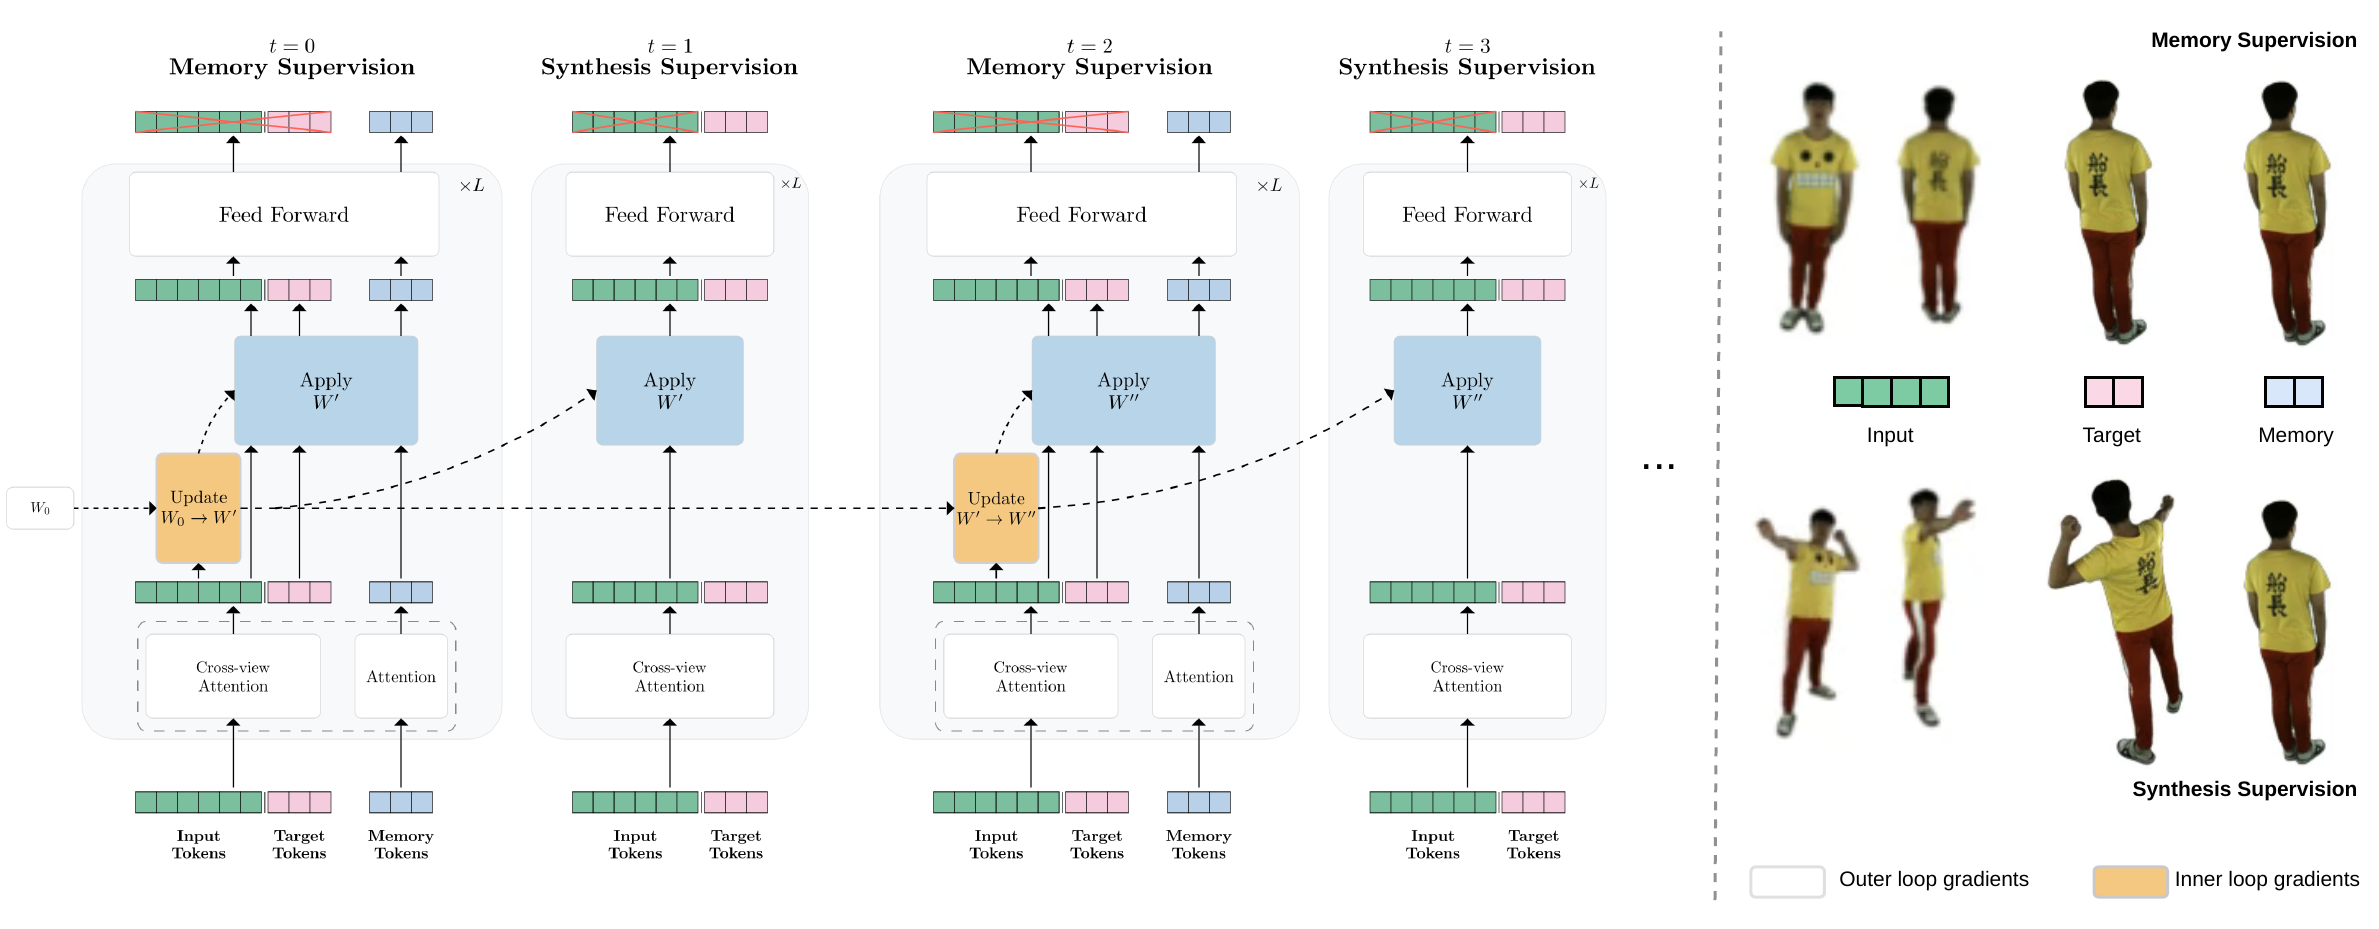
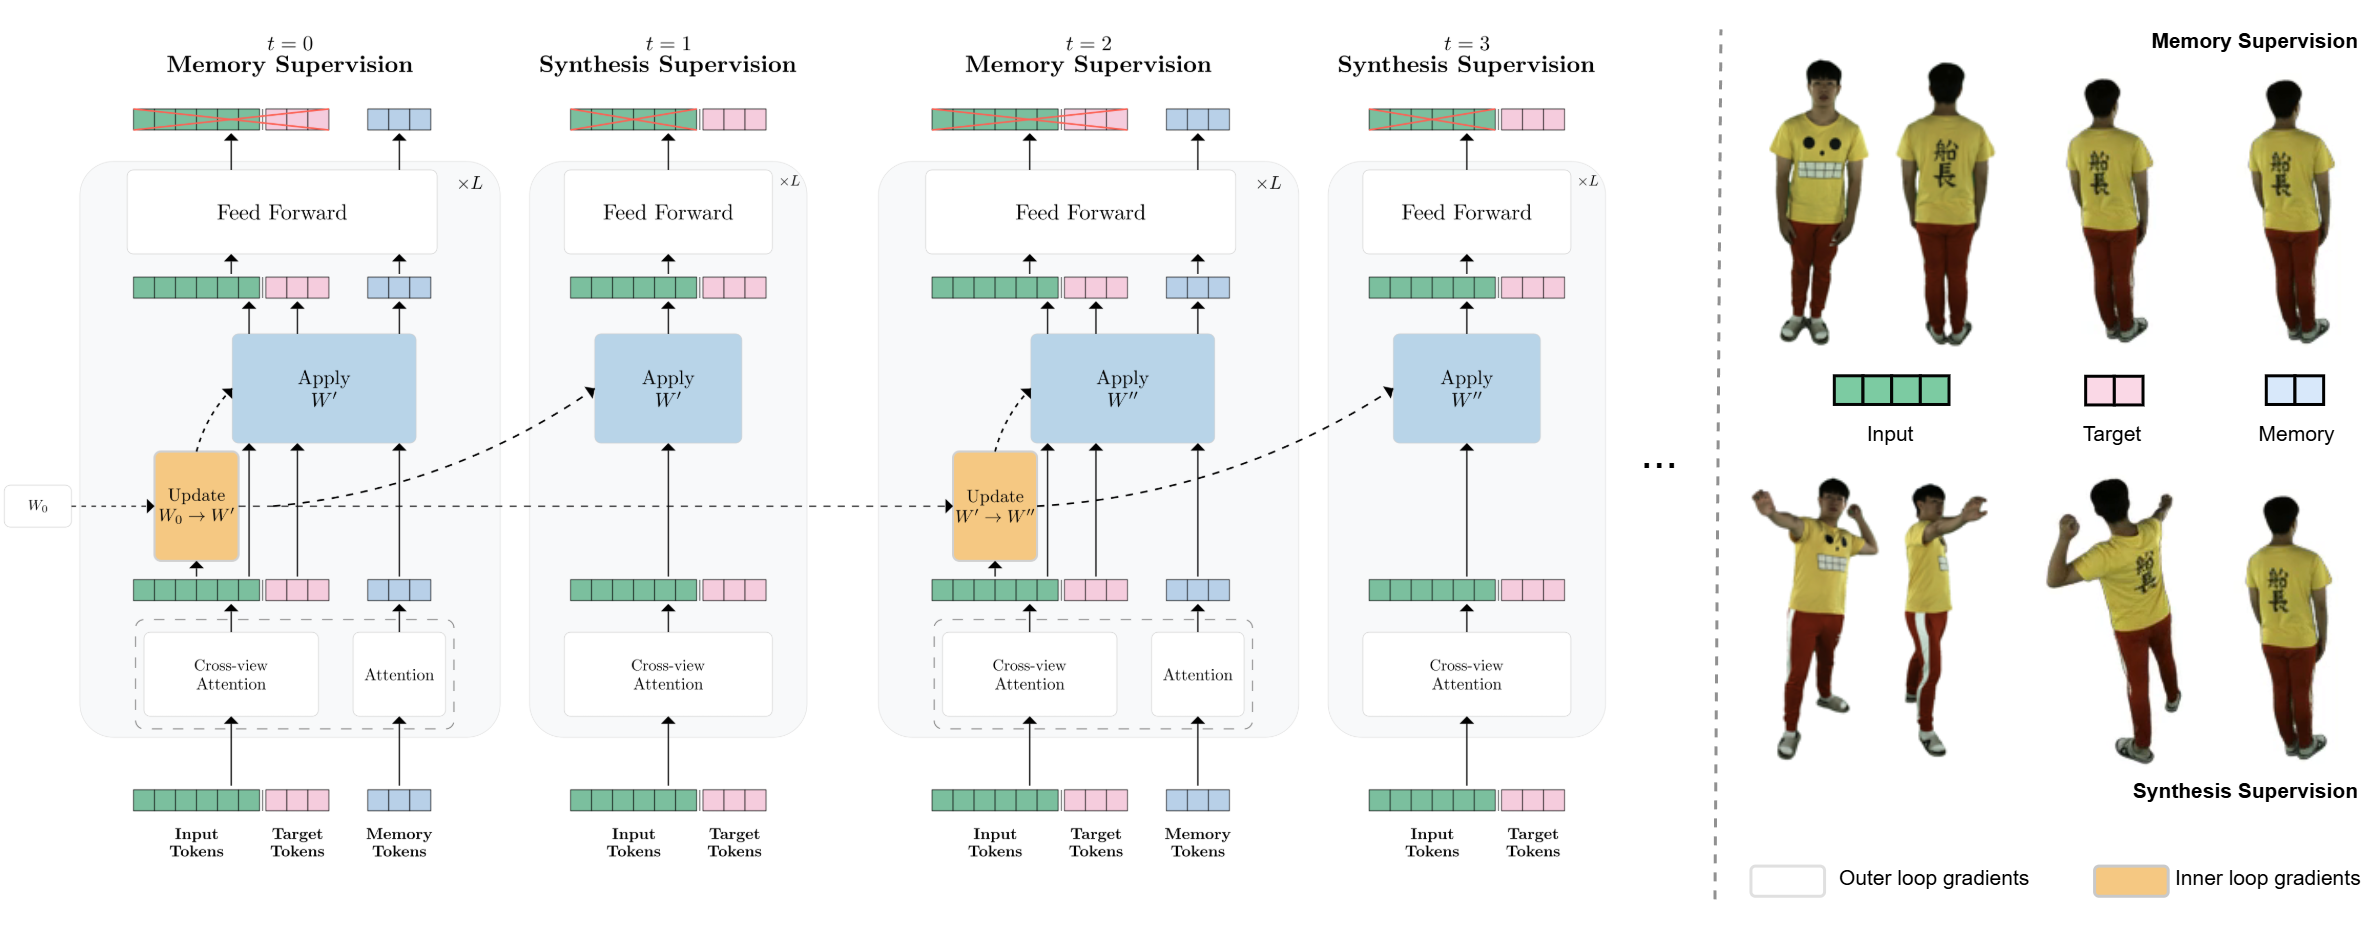
Sync text and training figure with the revised paper
- Abstract: last sentence ("state-of-the-art minute-scale memory
  persistence ... at amortized real-time speed")
- TL;DR: reworded
- Teaser (Fig. 1) caption: revised paper wording
- Training Scheme caption: revised wording, describes the updated figure
- resources/training_regime_v6.png: updated figure

diff --git a/index.html b/index.html
@@ -159,8 +159,8 @@
   <div class="notification is-info is-rounded tldr-card"
     style="text-align: center; background-color: #d0d5ec;">
     <h6 style="text-align: center; color: rgb(0, 0, 0); font-size: 1.07rem; line-height: 1.5; margin: 0;">
-      <strong>TL;DR: Real-time, minute-long memory for dynamic NVS from multi-view videos:</strong>
-      Remembers the past and reconstructs occluded regions. Beats SOTA like LaCT-NVS and LVSM.
+      <strong>TL;DR: Minute-long memory for online dynamic NVS from multi-view videos:</strong>
+      Remembers the past and reconstructs occluded regions at amortized real-time speed.
     </h6>
   </div>
 </section>
@@ -190,9 +190,9 @@
             historical context, we introduce two critical mechanisms: an auxiliary
             <em>Memory Loss</em> that forces persistent internalization of the scene,
             and a <em>Memory Caching</em> strategy that regularizes active weights
-            against catastrophic drift. Our method demonstrates real-time,
-            state-of-the-art performance on scenes with dynamic human motion as well as
-            minute-scale online memorization.
+            against catastrophic drift. Our method demonstrates state-of-the-art
+            minute-scale memory persistence in online dynamic human scenes at
+            amortized real-time speed.
           </p>
         </div>
         </div>
@@ -208,13 +208,13 @@
       <img src="resources/teaser_nstm_pink.png"
         alt="NSTM overview: input stereo video, periodic memorization, and per-frame synthesis over time.">
       <p class="caption-text" style="max-width: 900px; margin: 1rem auto 0;">
-        <strong>Neural Space-Time Memory (NSTM)</strong> synthesizes novel views in
-        amortized real-time from 30&nbsp;FPS multi-view videos, while updating its memory at 1&nbsp;FPS.
-        <strong>Middle:</strong> NSTM captures the back logo as the subject rotates (see memory readout),
+        <strong>Neural Space-Time Memory (NSTM)</strong> processes 30&nbsp;FPS multi-view video streams,
+        updating its memory at 1&nbsp;FPS while synthesizing novel views in real time.
+        <strong>Middle:</strong> NSTM captures back logo as subject rotates (see memory readout),
         faithfully recalling it later from memory given only frontal views. <strong>Right:</strong> While full
-        self-attention in typical feed-forward models (e.g., LVSM) scales quadratically with history sequence
-        length, NSTM scales with 𝒪(1) complexity, achieving amortized real-time inference at 256&times;256
-        resolution on one H100 GPU.
+        self-attention in typical feed-forward models (Temporal-LVSM; see paper) scales quadratically with
+        history sequence length, NSTM scales at 𝒪(1) complexity, achieving 256&times;256 amortized
+        real-time inference.
       </p>
     </div>
   </div>
@@ -536,16 +536,18 @@
             alt="NSTM training regime with alternating memory and synthesis supervision">
           <p class="caption-text">
             <strong>Training Scheme.</strong> <strong>Left:</strong> Our alternating training scheme explicitly
-            enforces memorization. In the Memory Supervision step, isolated memory tokens (target camera rays)
-            perform strict self-attention (sharing weights with the cross-view attention layer) without
-            attending to input views. Once the memory is updated by the inputs, these isolated tokens query the
-            memory to reconstruct the target view. This forces a pure memory readout, ensuring context
-            internalization. During Synthesis Supervision, we perform self-attention across input and target
-            tokens to capture ongoing motion, and then query the previously updated memory state.
+            enforces memorization. In the <em>Memory Supervision</em> step, isolated <em>memory tokens</em>
+            (target camera rays) perform strict self-attention &mdash; sharing weights with the
+            <em>cross-view attention</em> layer &mdash; without attending to input views. Once the memory is
+            updated by the inputs, these isolated tokens query the memory to reconstruct the target view. This
+            forces a pure memory readout, ensuring context internalization. During <em>Synthesis Supervision</em>,
+            we perform self-attention across input and target tokens to capture ongoing motion, and then query
+            the previously updated memory state.
             <strong>Right:</strong> Visualizations of the inputs, targets, and memory in both steps. Crucially,
-            the historical memory state often exhibits a different pose from the current observation during
-            synthesis. Our cross-view attention addresses this deformation, successfully fusing past appearance
-            with current motion.
+            the memory state predates the current observation during synthesis: here the memory holds a standing
+            pose (arms down, bottom-right) while the current inputs show a throwing pose (arms raised,
+            bottom-left). Our <em>cross-view attention</em> resolves this misalignment, transferring the
+            memorized shirt-back pattern onto the current pose.
           </p>
         </div>
       </div>

diff --git a/sections/method.html b/sections/method.html
@@ -38,16 +38,18 @@
             alt="NSTM training regime with alternating memory and synthesis supervision">
           <p class="caption-text">
             <strong>Training Scheme.</strong> <strong>Left:</strong> Our alternating training scheme explicitly
-            enforces memorization. In the Memory Supervision step, isolated memory tokens (target camera rays)
-            perform strict self-attention (sharing weights with the cross-view attention layer) without
-            attending to input views. Once the memory is updated by the inputs, these isolated tokens query the
-            memory to reconstruct the target view. This forces a pure memory readout, ensuring context
-            internalization. During Synthesis Supervision, we perform self-attention across input and target
-            tokens to capture ongoing motion, and then query the previously updated memory state.
+            enforces memorization. In the <em>Memory Supervision</em> step, isolated <em>memory tokens</em>
+            (target camera rays) perform strict self-attention &mdash; sharing weights with the
+            <em>cross-view attention</em> layer &mdash; without attending to input views. Once the memory is
+            updated by the inputs, these isolated tokens query the memory to reconstruct the target view. This
+            forces a pure memory readout, ensuring context internalization. During <em>Synthesis Supervision</em>,
+            we perform self-attention across input and target tokens to capture ongoing motion, and then query
+            the previously updated memory state.
             <strong>Right:</strong> Visualizations of the inputs, targets, and memory in both steps. Crucially,
-            the historical memory state often exhibits a different pose from the current observation during
-            synthesis. Our cross-view attention addresses this deformation, successfully fusing past appearance
-            with current motion.
+            the memory state predates the current observation during synthesis: here the memory holds a standing
+            pose (arms down, bottom-right) while the current inputs show a throwing pose (arms raised,
+            bottom-left). Our <em>cross-view attention</em> resolves this misalignment, transferring the
+            memorized shirt-back pattern onto the current pose.
           </p>
         </div>
       </div>

diff --git a/sections/teaser.html b/sections/teaser.html
@@ -5,13 +5,13 @@
       <img src="resources/teaser_nstm_pink.png"
         alt="NSTM overview: input stereo video, periodic memorization, and per-frame synthesis over time.">
       <p class="caption-text" style="max-width: 900px; margin: 1rem auto 0;">
-        <strong>Neural Space-Time Memory (NSTM)</strong> synthesizes novel views in
-        amortized real-time from 30&nbsp;FPS multi-view videos, while updating its memory at 1&nbsp;FPS.
-        <strong>Middle:</strong> NSTM captures the back logo as the subject rotates (see memory readout),
+        <strong>Neural Space-Time Memory (NSTM)</strong> processes 30&nbsp;FPS multi-view video streams,
+        updating its memory at 1&nbsp;FPS while synthesizing novel views in real time.
+        <strong>Middle:</strong> NSTM captures back logo as subject rotates (see memory readout),
         faithfully recalling it later from memory given only frontal views. <strong>Right:</strong> While full
-        self-attention in typical feed-forward models (e.g., LVSM) scales quadratically with history sequence
-        length, NSTM scales with 𝒪(1) complexity, achieving amortized real-time inference at 256&times;256
-        resolution on one H100 GPU.
+        self-attention in typical feed-forward models (Temporal-LVSM; see paper) scales quadratically with
+        history sequence length, NSTM scales at 𝒪(1) complexity, achieving 256&times;256 amortized
+        real-time inference.
       </p>
     </div>
   </div>

diff --git a/sections/abstract.html b/sections/abstract.html
@@ -22,9 +22,9 @@
             historical context, we introduce two critical mechanisms: an auxiliary
             <em>Memory Loss</em> that forces persistent internalization of the scene,
             and a <em>Memory Caching</em> strategy that regularizes active weights
-            against catastrophic drift. Our method demonstrates real-time,
-            state-of-the-art performance on scenes with dynamic human motion as well as
-            minute-scale online memorization.
+            against catastrophic drift. Our method demonstrates state-of-the-art
+            minute-scale memory persistence in online dynamic human scenes at
+            amortized real-time speed.
           </p>
         </div>
         </div>

diff --git a/sections/hero-demo.html b/sections/hero-demo.html
@@ -8,8 +8,8 @@
   <div class="notification is-info is-rounded tldr-card"
     style="text-align: center; background-color: #d0d5ec;">
     <h6 style="text-align: center; color: rgb(0, 0, 0); font-size: 1.07rem; line-height: 1.5; margin: 0;">
-      <strong>TL;DR: Real-time, minute-long memory for dynamic NVS from multi-view videos:</strong>
-      Remembers the past and reconstructs occluded regions. Beats SOTA like LaCT-NVS and LVSM.
+      <strong>TL;DR: Minute-long memory for online dynamic NVS from multi-view videos:</strong>
+      Remembers the past and reconstructs occluded regions at amortized real-time speed.
     </h6>
   </div>
 </section>
